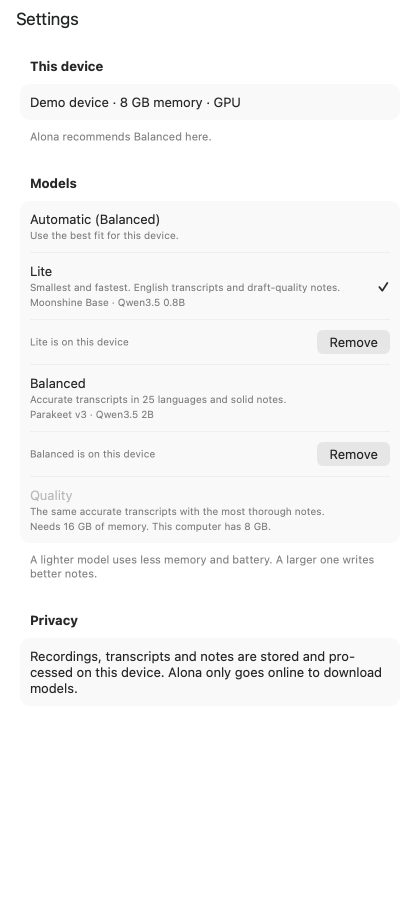
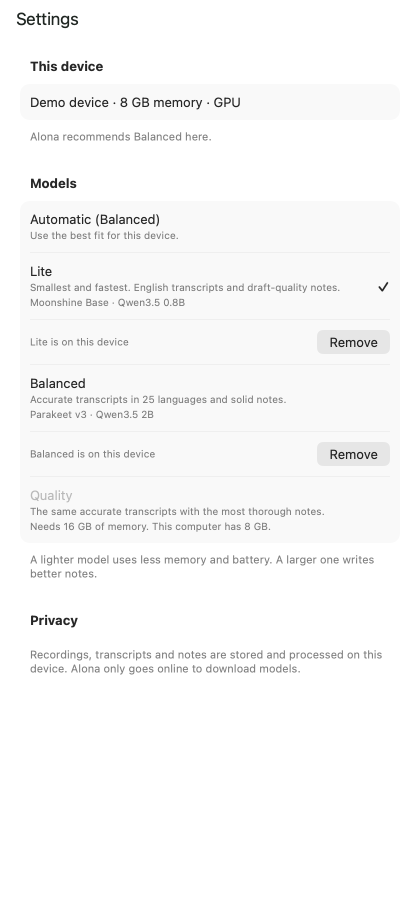
fix: measure memory as physical footprint, and fix the Android findings
- tools/e2e-native.mjs samples the app's physical footprint instead
  of resident size. Resident size counted freed pages the allocator
  had not returned, which read as growth across runs. A memory map
  after six Balanced runs showed a 103 MB footprint with 646 MB of
  empty, clean malloc regions.
- The check no longer loses its results when the final screenshot
  fails because the display is asleep.
- app.ts falls back to the demo engine when a host's probe fails,
  which is what Android does until it has an engine.
- The view sets the accent on its root, the meeting's pane switch
  spans the width, and the privacy text is a section footer.

Changed region(s): [[0.0619, 0.7156, 0.9286, 0.7778]]

diff --git a/app.ts b/app.ts
@@ -33,7 +33,12 @@ async function build(storage: Storage, native: NativeModule | null | undefined):
   const demo = (device: DeviceFacts = SIM_DEVICE): Service =>
     service(simEngine({ polls: 3, shelf: demoShelf(storage.fs), device }), store, true);
   if (native?.available !== true) return demo();
-  const probe = await native.later({ op: 'probe' });
+  // Android reports a native module because the recording packages are native, but nothing there
+  // answers the engine protocol yet, so its probe fails. It is the only such host.
+  const probe = await native.later({ op: 'probe' }).catch(() => null);
+  if (probe === null || typeof probe.host !== 'string') {
+    return demo({ ...SIM_DEVICE, host: 'android', formFactor: 'phone' });
+  }
   if (probe.demo === true) {
     // The demo keeps its sample memory and GPU, so captures match on every machine, but speaks as the real host.
     const real = parseDeviceFacts(probe);
